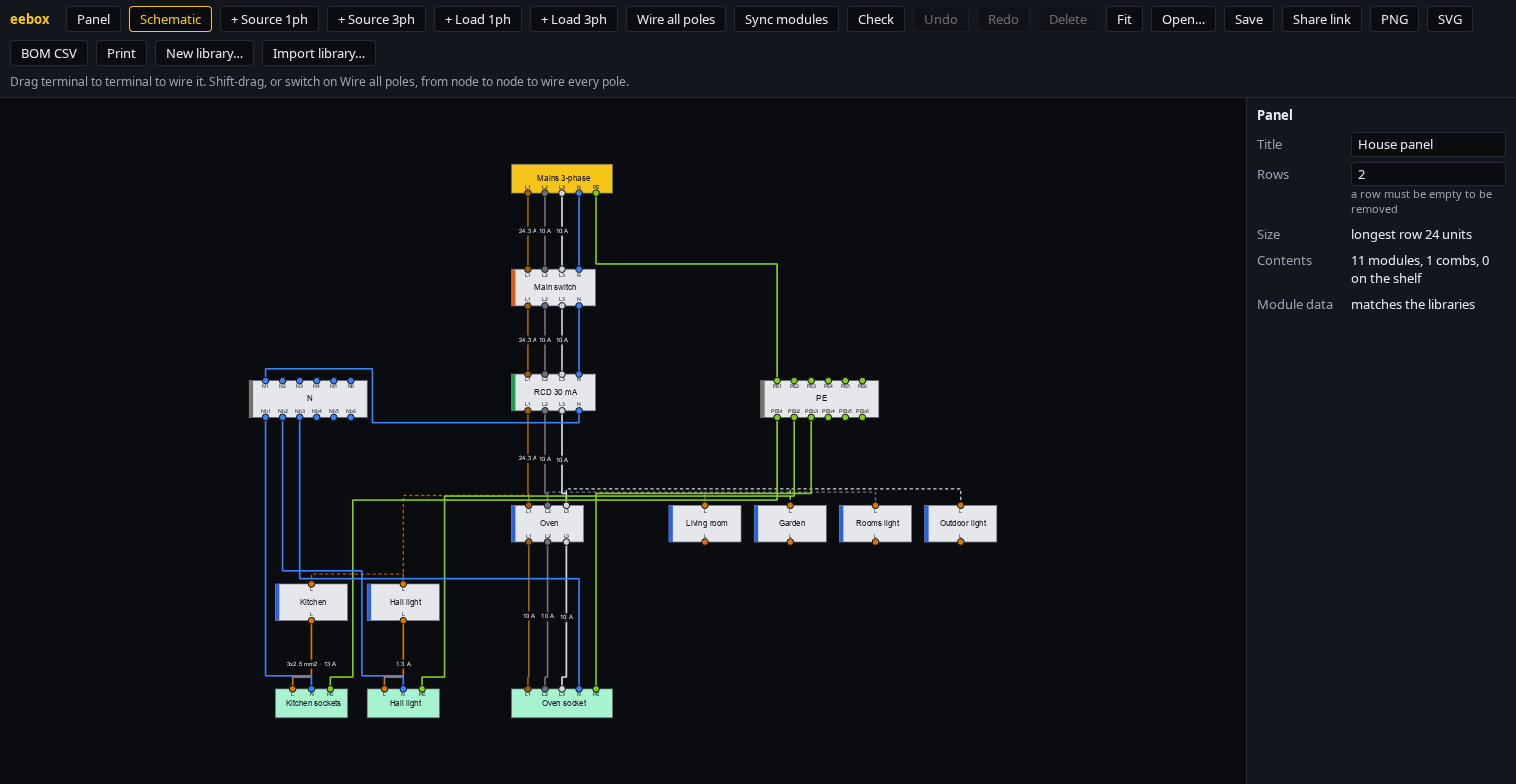
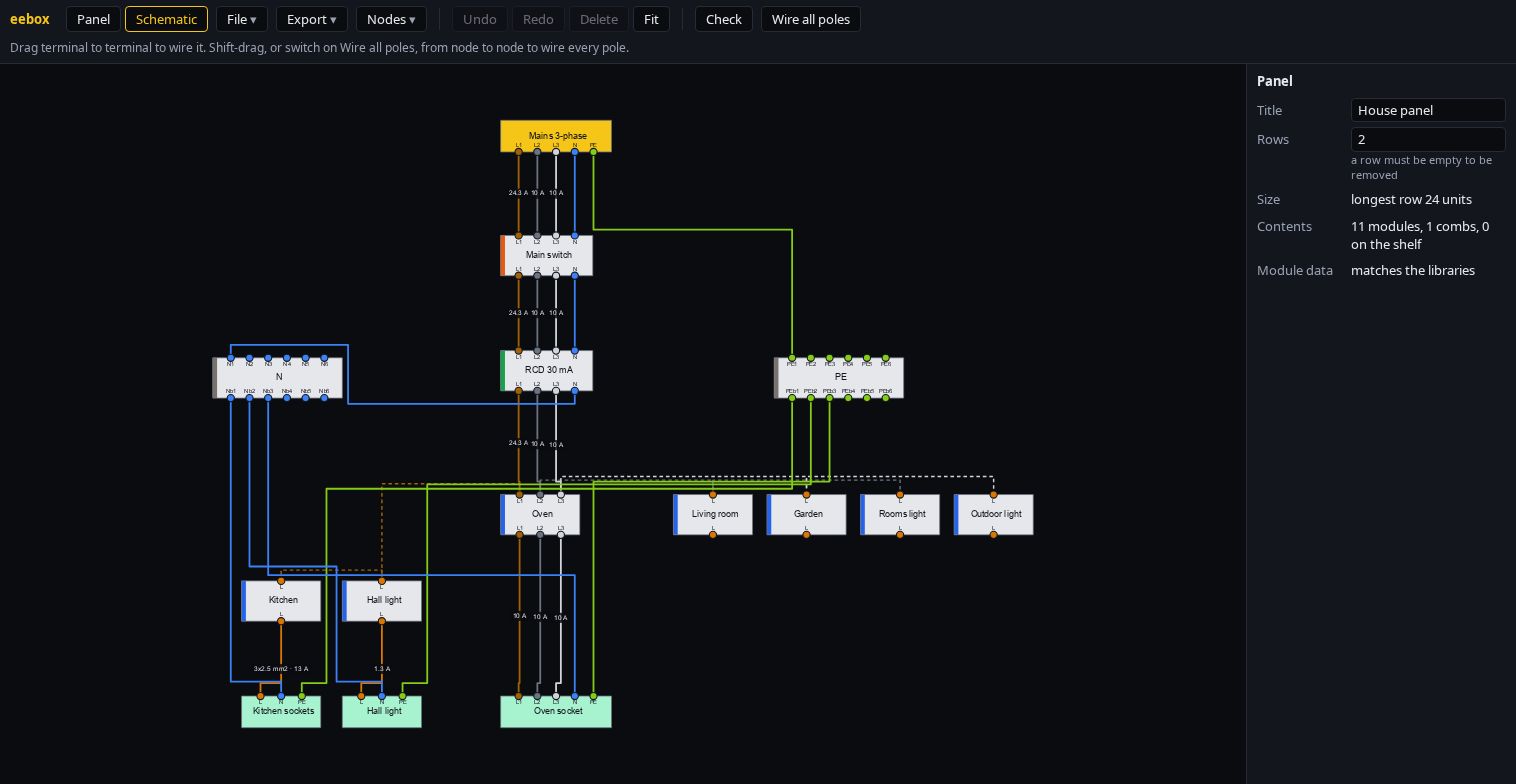
Add full-size tiled printing, narrow terminal blocks and refreshed screenshots
- Export > Print full size cuts the panel into overlapping A4 sheets at 1:1,
  with a dashed line where the next sheet begins and a caption per sheet.
- A terminal keeps a quarter of the module width from the edges when the
  module is narrower than 0.6 units, so clamps of about 5 mm can hold
  terminals; the margin stays 0.15 unit for wider modules.
- README screenshots are retaken as PNG and show group selection, the
  automatic backup example and a full-size sheet.

diff --git a/src/ui/tileSheet.ts b/src/ui/tileSheet.ts
@@ -1,0 +1,60 @@
+import { TILE_HEIGHT_MM, TILE_OVERLAP_MM, TILE_WIDTH_MM, tileLayout } from '../project/tiles';
+import { LIGHT_THEME } from '../view/theme';
+import { renderToSvg } from './exportImage';
+import type { Session } from './session';
+import type { View } from './view';
+
+const element = (tag: string, className: string, text?: string): HTMLElement => {
+  const el = document.createElement(tag);
+  el.className = className;
+  if (text !== undefined) el.textContent = text;
+  return el;
+};
+
+/**
+ * Fills the print sheet with the panel at 1:1, cut into overlapping A4 sheets. World units are
+ * millimetres, so the drawing is shown at its size in mm and each sheet shows the part of it that
+ * lies under the sheet.
+ */
+export function fillTileSheet(sheet: HTMLElement, session: Session, panelView: View): void {
+  const bounds = panelView.fitBounds();
+  const widthMm = bounds.maxX - bounds.minX;
+  const heightMm = bounds.maxY - bounds.minY;
+  const parsed = new DOMParser().parseFromString(renderToSvg(panelView, session, LIGHT_THEME, 'full-'), 'image/svg+xml');
+  const layout = tileLayout(widthMm, heightMm);
+  const total = layout.tiles.length;
+
+  sheet.replaceChildren(
+    ...layout.tiles.map((tile, index) => {
+      const page = element('div', 'tile');
+      const drawing = element('div', 'tile-drawing');
+      const svg = document.importNode(parsed.documentElement, true) as unknown as SVGSVGElement;
+      drawing.append(svg);
+      svg.removeAttribute('width');
+      svg.removeAttribute('height');
+      svg.style.width = `${widthMm}mm`;
+      svg.style.height = `${heightMm}mm`;
+      drawing.style.left = `${-tile.x}mm`;
+      drawing.style.top = `${-tile.y}mm`;
+      page.append(drawing);
+
+      const lastColumn = tile.column === layout.columns - 1;
+      const lastRow = tile.row === layout.rows - 1;
+      if (!lastColumn) page.append(guide('tile-guide-x', TILE_WIDTH_MM - TILE_OVERLAP_MM));
+      if (!lastRow) page.append(guide('tile-guide-y', TILE_HEIGHT_MM - TILE_OVERLAP_MM));
+      const title = session.project.panel.title ?? 'Panel';
+      page.append(
+        element('div', 'tile-caption', `${title}, 1:1 · sheet ${index + 1} of ${total} · column ${tile.column + 1}, row ${tile.row + 1} · print at 100 %, glue ${TILE_OVERLAP_MM} mm overlaps`),
+      );
+      return page;
+    }),
+  );
+}
+
+/** A dashed line where the next sheet begins. */
+function guide(className: string, offsetMm: number): HTMLElement {
+  const line = element('div', className);
+  if (className === 'tile-guide-x') line.style.left = `${offsetMm}mm`;
+  else line.style.top = `${offsetMm}mm`;
+  return line;
+}

diff --git a/index.html b/index.html
@@ -211,6 +211,12 @@
         #print-sheet table { width: 100%; border-collapse: collapse; font-size: 9pt; }
         #print-sheet th, #print-sheet td { border: 1px solid #000; padding: 1mm 2mm; text-align: left; }
         #print-sheet tr { break-inside: avoid; }
+        #print-sheet .tile { position: relative; width: 276mm; height: 188mm; overflow: hidden; break-after: page; break-inside: avoid; outline: 0.2mm solid #000; }
+        #print-sheet .tile-drawing { position: absolute; }
+        #print-sheet .tile-drawing svg { max-height: none; display: block; }
+        #print-sheet .tile-guide-x { position: absolute; top: 0; bottom: 0; border-left: 0.2mm dashed #888; }
+        #print-sheet .tile-guide-y { position: absolute; left: 0; right: 0; border-top: 0.2mm dashed #888; }
+        #print-sheet .tile-caption { position: absolute; left: 2mm; bottom: 1mm; font-size: 7pt; background: #fff; padding: 0 1mm; }
         #print-sheet .bom-total { margin: 2mm 0 0; font-size: 10pt; font-weight: 600; }
         .label-heading { margin: 0 0 4mm; font-size: 12pt; }
         .strip-line { margin-bottom: 5mm; break-inside: avoid; }
@@ -300,6 +306,7 @@
           <button class="menu-item" role="menuitem" id="export-circuits" title="Loads with their breaker, cable and voltage drop, and the ferrules needed">Circuits and ferrules (CSV)</button>
           <hr />
           <button class="menu-item" role="menuitem" id="print" title="Print the panel, the schematic and the lists">Print…</button>
+          <button class="menu-item" role="menuitem" id="print-full-size" title="Print the panel at 1:1 on overlapping A4 sheets to glue together">Print full size…</button>
           <button class="menu-item" role="menuitem" id="print-labels" title="Print labels for the modules at actual size and markers for the cables">Print labels…</button>
         </div>
       </div>

diff --git a/test/tiles.test.ts b/test/tiles.test.ts
@@ -1,0 +1,32 @@
+import { describe, expect, it } from 'vitest';
+import { TILE_HEIGHT_MM, TILE_OVERLAP_MM, TILE_WIDTH_MM, tileLayout } from '../src/project/tiles';
+
+describe('tileLayout', () => {
+  it('needs one sheet for a drawing that fits', () => {
+    expect(tileLayout(TILE_WIDTH_MM, TILE_HEIGHT_MM)).toEqual({ columns: 1, rows: 1, tiles: [{ column: 0, row: 0, x: 0, y: 0 }] });
+  });
+
+  it('adds a sheet as soon as the drawing is a little larger, and overlaps neighbours', () => {
+    const layout = tileLayout(TILE_WIDTH_MM + 1, TILE_HEIGHT_MM);
+    expect(layout.columns).toBe(2);
+    expect(layout.tiles[1]).toMatchObject({ column: 1, x: TILE_WIDTH_MM - TILE_OVERLAP_MM });
+  });
+
+  it('covers the whole drawing: the last sheet reaches its far edge', () => {
+    for (const [w, h] of [[420, 300], [1200, 900], [277, 189], [3000, 150]] as const) {
+      const { tiles } = tileLayout(w, h);
+      expect(Math.max(...tiles.map((t) => t.x)) + TILE_WIDTH_MM).toBeGreaterThanOrEqual(w);
+      expect(Math.max(...tiles.map((t) => t.y)) + TILE_HEIGHT_MM).toBeGreaterThanOrEqual(h);
+    }
+  });
+
+  it('does not add a sheet that would hold nothing new', () => {
+    const exact = tileLayout(TILE_WIDTH_MM + (TILE_WIDTH_MM - TILE_OVERLAP_MM), TILE_HEIGHT_MM);
+    expect(exact.columns).toBe(2);
+  });
+
+  it('numbers sheets left to right, then top to bottom', () => {
+    const { tiles } = tileLayout(600, 350);
+    expect(tiles.map((t) => [t.row, t.column])).toEqual([[0, 0], [0, 1], [0, 2], [1, 0], [1, 1], [1, 2]]);
+  });
+});

diff --git a/test/narrow-modules.test.ts b/test/narrow-modules.test.ts
@@ -1,0 +1,32 @@
+import { describe, expect, it } from 'vitest';
+import { unitsFromMm } from '../src/layout/units';
+import { edgeMargin, fixedRange, isValidPosition } from '../src/library/positions';
+import { blockTerminals } from '../src/library/terminalLayouts';
+import { validateLibrary } from '../src/library/validate';
+
+const clamp = (widthMm: number) => {
+  const widthUnits = unitsFromMm(widthMm);
+  const terminals = blockTerminals({ top: 1, bottom: 1, conductor: 'L', joined: true }, widthUnits, false);
+  return validateLibrary({ schemaVersion: 1, id: 'clamps', name: 'Clamps', modules: [{ id: 'clamp', kind: 'terminal', name: 'Clamp', widthUnits, poles: 1, terminals }] });
+};
+
+describe('terminals on very narrow modules', () => {
+  it('keep the usual margin of 0.15 unit from 0.6 units up and a quarter of the width below that', () => {
+    expect(edgeMargin(1)).toBe(0.15);
+    expect(edgeMargin(0.6)).toBe(0.15);
+    expect(edgeMargin(0.4)).toBeCloseTo(0.1);
+    expect(fixedRange(1)).toEqual({ min: -0.35, max: 0.35 });
+  });
+
+  it('let a feed-through clamp of 5.2 mm hold its two terminals', () => {
+    expect(clamp(5.2).ok).toBe(true);
+    expect(clamp(6.2).ok).toBe(true);
+  });
+
+  it('still refuse a position outside the module, however narrow it is', () => {
+    const width = unitsFromMm(5.2);
+    expect(isValidPosition(-0.5, undefined, width)).toBe(false);
+    expect(isValidPosition(width, undefined, width)).toBe(false);
+    expect(isValidPosition(-0.35, undefined, width)).toBe(true);
+  });
+});

diff --git a/src/project/tiles.ts b/src/project/tiles.ts
@@ -1,0 +1,41 @@
+/** Printable area of an A4 sheet in landscape with 10 mm margins, less a little for rounding in the print engine. */
+export const TILE_WIDTH_MM = 276;
+export const TILE_HEIGHT_MM = 188;
+/** How far neighbouring sheets overlap, so they can be glued edge over edge. */
+export const TILE_OVERLAP_MM = 10;
+
+export interface Tile {
+  column: number;
+  row: number;
+  /** Where the sheet starts on the drawing, in mm from its top-left corner. */
+  x: number;
+  y: number;
+}
+
+export interface TileLayout {
+  columns: number;
+  rows: number;
+  tiles: Tile[];
+}
+
+const sheetsFor = (extentMm: number, sheetMm: number, overlapMm: number): number =>
+  extentMm <= sheetMm ? 1 : 1 + Math.ceil((extentMm - sheetMm) / (sheetMm - overlapMm));
+
+/** Cuts a drawing of the given size into sheets that overlap, left to right and top to bottom. */
+export function tileLayout(
+  widthMm: number,
+  heightMm: number,
+  sheetWidthMm = TILE_WIDTH_MM,
+  sheetHeightMm = TILE_HEIGHT_MM,
+  overlapMm = TILE_OVERLAP_MM,
+): TileLayout {
+  const columns = sheetsFor(widthMm, sheetWidthMm, overlapMm);
+  const rows = sheetsFor(heightMm, sheetHeightMm, overlapMm);
+  const tiles: Tile[] = [];
+  for (let row = 0; row < rows; row++) {
+    for (let column = 0; column < columns; column++) {
+      tiles.push({ column, row, x: column * (sheetWidthMm - overlapMm), y: row * (sheetHeightMm - overlapMm) });
+    }
+  }
+  return { columns, rows, tiles };
+}

diff --git a/src/library/positions.ts b/src/library/positions.ts
@@ -7,6 +7,9 @@
 /** A terminal keeps this far from either edge of the module, which leaves room for its own width. */
 export const TERMINAL_EDGE_MARGIN_UNITS = 0.15;
 
+/** On a module narrower than 0.6 units the margin shrinks to a quarter of the width, so a 5.2 mm clamp can hold a terminal. */
+export const edgeMargin = (width: number): number => Math.min(TERMINAL_EDGE_MARGIN_UNITS, width / 4);
+
 const round = (n: number): number => Math.round(n * 1e6) / 1e6;
 
 export interface Range {
@@ -16,7 +19,8 @@ export interface Range {
 
 /** What a module of a fixed width allows, counted from the left. */
 export function fixedRange(width: number): Range {
-  return { min: round(-0.5 + TERMINAL_EDGE_MARGIN_UNITS), max: round(width - 0.5 - TERMINAL_EDGE_MARGIN_UNITS) };
+  const margin = edgeMargin(width);
+  return { min: round(-0.5 + margin), max: round(width - 0.5 - margin) };
 }
 
 /**
@@ -24,9 +28,10 @@ export function fixedRange(width: number): Range {
  * from the left edge when it is not negative and from the right edge when it is.
  */
 export function resizableRanges(narrowest: number): { left: Range; right: Range } {
+  const margin = edgeMargin(narrowest);
   return {
     left: fixedRange(narrowest),
-    right: { min: round(-narrowest - 0.5 + TERMINAL_EDGE_MARGIN_UNITS), max: round(-0.5 - TERMINAL_EDGE_MARGIN_UNITS) },
+    right: { min: round(-narrowest - 0.5 + margin), max: round(-0.5 - margin) },
   };
 }
 

diff --git a/src/main.ts b/src/main.ts
@@ -37,6 +37,7 @@ import { editCableSettings } from './ui/cableSettingsDialog';
 import { initMenus } from './ui/menu';
 import { PaletteView } from './ui/paletteView';
 import { fillPrintSheet } from './ui/printSheet';
+import { fillTileSheet } from './ui/tileSheet';
 import { ShelfView } from './ui/shelfView';
 import { fileStem } from './project/names';
 import { downloadBlob } from './ui/download';
@@ -333,6 +334,13 @@ function removeOrphans(): void {
   else showStatus(`Removed ${nodes(removed)}.${keptWired > 0 ? ` ${stayed}` : ''}`, keptWired > 0);
 }
 
+function printFullSize(): void {
+  const sheet = byId('print-sheet');
+  fillTileSheet(sheet, session, views.panel);
+  window.addEventListener('afterprint', () => sheet.replaceChildren(), { once: true });
+  window.print();
+}
+
 function printLabels(): void {
   const sheet = byId('print-sheet');
   fillLabelSheet(sheet, session);
@@ -557,6 +565,7 @@ byId('open-example').addEventListener('click', async () => {
 byId('print').addEventListener('click', printProject);
 byId('new-module').addEventListener('click', designNewModule);
 byId('print-labels').addEventListener('click', printLabels);
+byId('print-full-size').addEventListener('click', printFullSize);
 byId('new-library').addEventListener('click', () =>
   openEditor(newLibrary(uniqueId('my-library', session.libraries.map((l) => l.id)), 'My library'), {
     isNew: true,

diff --git a/README.md b/README.md
@@ -8,6 +8,14 @@ A modular electrical panel designer that runs entirely in the browser. Lay out D
 
 ![Wiring schematic](docs/images/schematic.png)
 
+Shift-drag selects several modules at once and dragging one moves them all:
+
+![A rubber band selecting modules](docs/images/selection.png)
+
+A transfer controller and two contactors switch a workshop to the generator when the mains go away (the mains are switched off in this picture):
+
+![Automatic backup with the mains off](docs/images/auto-backup.png)
+
 ## Features
 
 - **Panel layout.** Rails of any length and spacing in 17.5 mm module units. Drag modules from the palette, reorder modules and rails, take modules off a rail onto a shelf and put them back.
@@ -25,6 +33,9 @@ A modular electrical panel designer that runs entirely in the browser. Lay out D
 - **Check.** Finds overlaps, wrongly joined conductors and orphaned nodes, and warns about design problems: a load without protective earth, a module fed through its outputs only, more current drawn on one phase than a module is rated for, and loads that can be fed without passing an RCD or RCBO.
 - **Module designer.** *New module...* in the sidebar draws a module and lets you place its terminals with the mouse: click the top or bottom half to add one, drag to move it, Delete to remove it, Undo and Redo to take a step back. A click can add a whole kind of terminal with its standard names (coil A1 A2, contacts 13 14, 11 12 14, supply, DC supply, sensor, a row). *Row...* adds any number of terminals to a side at once, spread evenly, and *Block...* makes a terminal block with so many on top and so many below (1 and 1, 1 and 6, 0 and 8, whatever the device has), all one point if you like. Terminals can stand anywhere along the module, not only on a whole unit, and *Spread* evens them out again. *Connect* joins two terminals inside the module, drawn as lines to a common point, and *All terminals: conductor* sets one conductor on all of them. A slider shows the module at another width and a second drawing shows it on a rail as the panel does; *Variants...* makes a copy for every rating, curve or conductor, so a block in five colours is designed once. Start from a template (breaker, contactor, relay, lighting relay, meter, pilot light, power supply, changeover switch) or from nothing; fields for the name, width, ratings and the selected terminal sit beside the drawing. Modules are kept in your own *My modules* library. *edit* on a module in the palette, or *Edit module...* in the inspector of a placed one, opens it again; a module of the bundled library is copied first.
 - **Your own libraries.** Import JSON libraries, search and group the palette, update placed modules from a changed library, or write a library in the built-in editor. See [docs/library-format.md](docs/library-format.md).
+- **Full-size print.** *Export > Print full size...* cuts the panel into overlapping A4 sheets at 1:1, with a dashed line where the next sheet begins, to print at 100 % and glue.
+
+  ![One sheet of a full-size print](docs/images/full-size-sheet.png)
 - **Output.** PNG and SVG on a white ground, parts list and a list of circuits with the ferrules needed (CSV), a print sheet (panel, schematic, parts list, circuits, ferrules), labels for the modules at actual size and markers for the ends of cables, save and open project files, share links, autosave.
 
 ![Library editor](docs/images/library-editor.png)

diff --git a/docs/library-format.md b/docs/library-format.md
@@ -54,7 +54,7 @@ Without `terminals`, each pole yields a terminal on the top and the bottom side:
 | `conductor` | `L`, `L1`, `L2`, `L3`, `N`, `PE`, `C`, `DCP` or `DCN`; `L` is a phase decided by what feeds it |
 | `side` | `top` or `bottom` |
 | `net` | terminals of one module that share a net are connected inside it (a terminal bar); without a net a terminal is isolated |
-| `unit` | position of the terminal's centre along the module, in module units from the left edge; decimals are allowed. `0` is the centre of the first unit and `0.5` the border between the first and the second. It has to lie inside the module and `0.15` of a unit from either edge, so `-0.35` to `width - 0.65`; not combined with `count`. On a resizable module a negative value counts from the right edge (`-1` is the centre of the last unit), and any position must exist at the narrowest width |
+| `unit` | position of the terminal's centre along the module, in module units from the left edge; decimals are allowed. `0` is the centre of the first unit and `0.5` the border between the first and the second. It has to lie inside the module and `0.15` of a unit from either edge (a quarter of the width on a module narrower than 0.6 units, so a 5.2 mm clamp can hold terminals), so `-0.35` to `width - 0.65`; not combined with `count`. On a resizable module a negative value counts from the right edge (`-1` is the centre of the last unit), and any position must exist at the narrowest width |
 | `count` | 1 to 48 identical terminals named `name1`, `name2`, ... |
 
 A module has at most 64 terminals.
